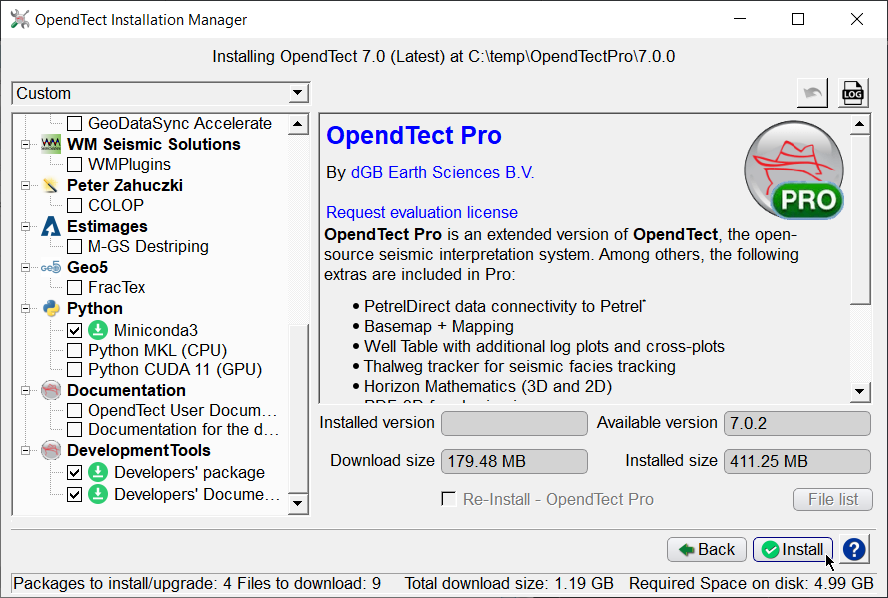
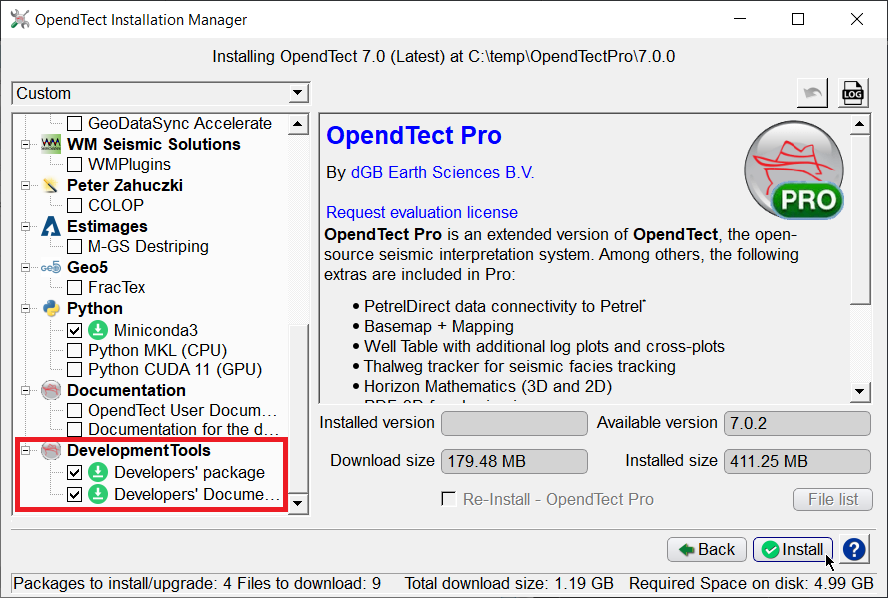
Updated Programmer's Manual

Changed region(s): [[0.0, 0.7224, 0.3345, 0.8729]]

diff --git a/programmer/Content/2_Build a standalone plugin/2_4_Debugging_your_plugin.htm b/programmer/Content/2_Build a standalone plugin/2_4_Debugging_your_plugin.htm
@@ -4,7 +4,28 @@
     </head>
     <body>
         <h2>2.4 Debugging your plugin<MadCap:concept term="Debugging your plugin" /></h2>
-        <p>Open the plugin solution in Visual Studio, and right-click on the solution item, and open the solution properties window. Here you can specify the debug source file location, so in your case add the location of the OpendTect source files which are installed by the installation manager, i.e. C:\Program Files\OpendTect\<MadCap:variable name="Variables.Version" />. Now select the "od_main" project which is a launcher project to launch od_main debug executable that comes with the developers package. Right click on this project and set to "Set as startup project". When you press F5 for debugging this project will be started. Ignore if you see any Visual studio warnings. The OpendTect main program, od_main.exe will be launched.</p>
-        <p>From Utilities-Installation-Plugins OpendTect try to load your plugin by browsing to the WORK(D:\WORK)\bin\win64\Debug folder. To debug something, just set a break point in the code. So when the control comes to the break-point it will stop there and you can debug your code. You can also browse into OpendTect source files if you have specified the OpendTect source file location is the solution properties as mentioned above.</p>
+        <p>Open the plugin solution in Microsoft Visual Studio and navigate to the Solution Explorer. Expand the “CMakePredefinedTargets", then right-click on "ALL_BUILD" and select Build.</p>
+        <p>
+            <img src="../Resources/Images/Plugins/debug_all_build.png" style="width: 481px;height: 308px;" />
+        </p>
+        <p>Once the build process is complete, expand the “Launchers” on Solution Explorer. Right-click on "od_main_console" and click "Set as Startup Project". This will be the launcher project for running the od_main debug executable included in the Developer’s Package.</p>
+        <p>
+            <img src="../Resources/Images/Plugins/debug_launchers.png" style="width: 479px;height: 457px;" />
+        </p>
+        <p>Press F5 to start debugging. If you see any Visual Studio warnings, they can be ignored. The OpendTect main program will launch. Inside OpendTect, navigate to Utilities &gt; Installation &gt; Plugins to verify that the developed plugins are listed and loaded correctly.</p>
+        <p>
+            <img src="../Resources/Images/Plugins/debug_inst_plugins_menu.png" style="width: 353px;height: 229px;" />
+        </p>
+        <p>
+            <img src="../Resources/Images/Plugins/debug_inst_plugins_main.png" style="width: 705px;height: 307px;" />
+        </p>
+        <p>Note that the OpendTect program that opens is from the official OpendTect installation. However, the main focus of debugging is the developed plugin. If you want to debug a specific plugin, you must select and build that plugin instead of building “ALL_BUILD”. To do this, go to the Microsoft Visual Studio Solution Explorer and expand “OD Free Plugins”. Select the plugin you want to debug, such as the "Tut" plugin, then right-click on it and click Build.</p>
+        <p>
+            <img src="../Resources/Images/Plugins/debug_specific_plugin.png" style="width: 468px;height: 201px;" />
+        </p>
+        <p>After the build process is complete, press F5 to start debugging. Once OpendTect launches, check whether the plugin loads correctly by navigating to Utilities &gt; Installation &gt; Plugins.</p>
+        <p>
+            <img src="../Resources/Images/Plugins/debug_specific_plugin_check.png" />
+        </p>
     </body>
 </html>

diff --git a/programmer/Content/2_Build a standalone plugin/2_3_Building_The_Tutorial_Plugin/2_3_1_Working_on_Windows.htm b/programmer/Content/2_Build a standalone plugin/2_3_Building_The_Tutorial_Plugin/2_3_1_Working_on_Windows.htm
@@ -1,0 +1,47 @@
+<?xml version="1.0" encoding="utf-8"?>
+<html xmlns:MadCap="http://www.madcapsoftware.com/Schemas/MadCap.xsd">
+    <head>
+    </head>
+    <body>
+        <h3>2.3.1 Working on Windows</h3>
+        <p>After creating the folder, run CMake-GUI. In the "Where is the source code" field, browse and select the directory you just created previously (e.g., C:/Users/your_name/ODWork).</p>
+        <p>
+            <img src="../../Resources/Images/Plugins/win_cmake_main.png" style="width: 495px;height: 492px;" />
+        </p>
+        <p>In the “Preset” field, select “Default Windows settings for MSVC”, this preset is used for Microsoft Studio Code 2022 IDE.</p>
+        <p>Note that there are other preset options. However, these presets are not used directly using CMake-GUI. “Default Windows settings for VSCODE” is used for Visual Studio, “ninja-msvc-qtcreator” is used for QT Creator IDE, and “Default Linux settings” is used for Linux operating systems.</p>
+        <p>
+            <img src="../../Resources/Images/Plugins/win_cmake_set+default.png" style="width: 496px;height: 495px;" />
+        </p>
+        <p>After selecting the “Define Windows settings for MSVC” preset. The “Where to build the binaries” will be automatically filled.</p>
+        <p>
+            <img src="../../Resources/Images/Plugins/win_cmake_set_build_location.png" style="width: 496px;height: 494px;" />
+        </p>
+        <p>Then click Configure. An information window will appear, asking for permission to create a build directory. Click Yes.</p>
+        <p>
+            <img src="../../Resources/Images/Plugins/win_cmake_set_yes.png" style="width: 493px;height: 490px;" />
+        </p>
+        <p>Select Visual Studio 17 2022 as the generator and choose x64 as the platform. Click Finish.</p>
+        <p>
+            <img src="../../Resources/Images/Plugins/win_cmake_set_finish.png" style="width: 496px;height: 494px;" />
+        </p>
+        <p>CMake will automatically start the configuration process. Once completed, CMake-GUI will display a list of variables with “Name” and “Value” fields automatically filled in. Pay attention to the following variables:</p>
+        <ul>
+            <li>
+                <p>CMAKE_INSTALL_PREFIX</p>
+            </li>
+            <li>
+                <p>OD_BINARY_BASEDIR</p>
+            </li>
+            <li>
+                <p>OpendTect_DIR</p>
+            </li>
+        </ul>
+        <p>Ensure that these variables point to the correct paths. The values of OD_BINARY_BASEDIR and OpendTect_DIR should be the same when using an official installation of OpendTect, as opposed to a rebuilt SDK. As a result in most cases their values should not be changed.</p>
+        <p>
+            <img src="../../Resources/Images/Plugins/win_cmake_set_build.png" style="width: 495px;height: 493px;" />
+        </p>
+        <p>Then click Generate. If everything is successful, you can click Open Project. Microsoft Visual Studio will automatically open the project solution.</p>
+        <p>For a more in depth view of the code in the tutorial plugin, please review Chapter 3 of this manual, this chapter will continue with ways to debug and install a plugin.</p>
+    </body>
+</html>

diff --git a/programmer/Content/2_Build a standalone plugin/2_3_Building_The_Tutorial_Plugin/2_3_2_Working_on_Unix.htm b/programmer/Content/2_Build a standalone plugin/2_3_Building_The_Tutorial_Plugin/2_3_2_Working_on_Unix.htm
@@ -1,0 +1,40 @@
+<?xml version="1.0" encoding="utf-8"?>
+<html xmlns:MadCap="http://www.madcapsoftware.com/Schemas/MadCap.xsd">
+    <head>
+    </head>
+    <body>
+        <h3>2.3.2 Working on Unix</h3>
+        <p>After creating the folder, open CMakeUserPresets.json in the directory you just created (e.g., /home/users/ODWork/CMakeUserPresets.json) using a text editor.</p>
+        <ul>
+            <li>
+                <p>
+On Line 39, update the value to point to your Ninja directory (e.g., /home/users/appman/lux64/qt/Qt/Tools/Ninja/ninja).
+</p>
+            </li>
+            <li>
+                <p>On Line 40, update the value to your OpendTect installation directory (e.g., /home/users/OpendTect).</p>
+            </li>
+            <li>
+                <p>On Line 41, update the value to your Qt installation directory (e.g., /home/users/appman/lux64/qt/Qt/6.8.1/gcc_64).</p>
+            </li>
+        </ul>
+        <p>After ensuring that all values are correct, save the file.
+</p>
+        <p>
+            <img src="../../Resources/Images/Plugins/unix_terminal_directory.png" style="width: 506px;height: 544px;" />
+        </p>
+        <p>Next, open the Terminal. Point to the directory you just created previously (e.g., /home/users/ODWork)</p>
+        <p>
+            <img src="../../Resources/Images/Plugins/unix_terminal_directory_odwork.png" style="width: 436px;height: 156px;" />
+        </p>
+        <p>Then, run the following command:</p>
+        <blockquote>
+            <p style="font-family: 'Courier New';">cmake --preset default-ninja-unix</p>
+        </blockquote>
+        <p>Press Enter, and CMake will automatically start the configuration and generation process.</p>
+        <p>
+            <img src="../../Resources/Images/Plugins/unix_terminal_directory_cmake.png" style="width: 444px;height: 289px;" />
+        </p>
+        <p>&#160;</p>
+    </body>
+</html>

diff --git a/programmer/Content/2_Build a standalone plugin/2_3_Building_the_Tutorial_Plugin.htm b/programmer/Content/2_Build a standalone plugin/2_3_Building_the_Tutorial_Plugin.htm
@@ -4,17 +4,6 @@
     </head>
     <body>
         <h2>2.3 Building the Tutorial Plugin<MadCap:concept term="Building the Tutorial plugin" /></h2>
-        <p>After creating the folder, run CMake and select the WORK directory you just created, put the location in both the "source" and "output" fields. Then press the 'Configure' button</p>
-        <p>
-            <img src="../Resources/Images/Plugins/CMAKE.jpg" style="max-width: 100%;" MadCap:mediastyle="@media print { max-width: 100%; }" />
-        </p>
-        <p>Select Visual Studio 15 2017 as the generator and choose x64 as the platform. Click Finish.</p>
-        <p>The first configuration will probably fail, do not worry, click ok.</p>
-        <p>
-            <img src="../Resources/Images/Plugins/CMake-error.jpg" MadCap:mediastyle="@media print { max-width: 100%; }" style="max-width: 100%;" />
-        </p>
-        <p>And set OpendTect_DIR to point to your installed OpendTect directory, after this you can click Generate to create the necessary project files. </p>
-        <p>If successful you will see the created files in your WORK folder, and can open the OpendTect_Tutorial_Plugin.sln file to run Visual Studio.</p>
-        <p>For a more in depth view of the code in the tutorial plugin, please review Chapter 3 of this manual, this chapter will continue with ways to debug and install a plugin.</p>
+        <p>Plugin workflows may be followed on both Windows and Unix platforms.</p>
     </body>
 </html>

diff --git a/programmer/Content/2_Build a standalone plugin/2_2_Setting_up_the_environment.htm b/programmer/Content/2_Build a standalone plugin/2_2_Setting_up_the_environment.htm
@@ -8,7 +8,7 @@
         <p>
             <img src="../Resources/Images/Plugins/menu_installation.png" style="max-width: 100%;" MadCap:mediastyle="@media print { max-width: 100%; }" />
         </p>
-        <p>This will open the OpendTect Installation Manager. In the installation manager make sure that besides all plugins and packages you want to have available in OpendTect, the Developer's Package option in Development Tools  is checked.</p>
+        <p>This will open the OpendTect Installation Manager. In the installation manager make sure that besides all plugins and packages you want to have available in OpendTect, the Developer's Package option in Development Tools  is checked. (The default state is unchecked.)</p>
         <p>
             <img src="../Resources/Images/Plugins/Installation_manager_devpack.png" style="max-width: 100%;" MadCap:mediastyle="@media print { max-width: 100%; }" />
         </p>

diff --git a/programmer/Content/2_Build a standalone plugin/2_1_Introduction.htm b/programmer/Content/2_Build a standalone plugin/2_1_Introduction.htm
@@ -19,6 +19,6 @@ One thing you cannot do, is use another compiler than gcc/g++ on Linux/macOS or 
         <p><a href="https://cmake.org/download/" target="_blank">CMake</a> </p>
         <p><i>Windows:</i>
         </p>
-        <p><a href="https://visualstudio.microsoft.com/downloads/" target="_blank">Visual Studio 2022 or 2019 (Community Edition is sufficient)</a> </p>
+        <p><a href="https://visualstudio.microsoft.com/downloads/" target="_blank">Visual Studio 2022 (Community Edition is sufficient)</a> </p>
     </body>
 </html>
